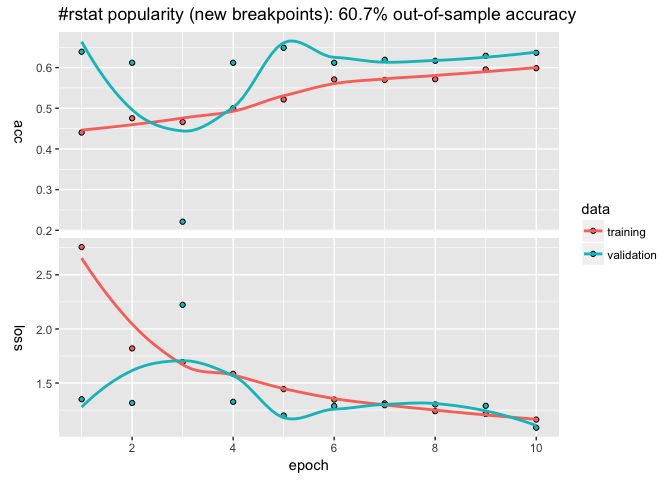
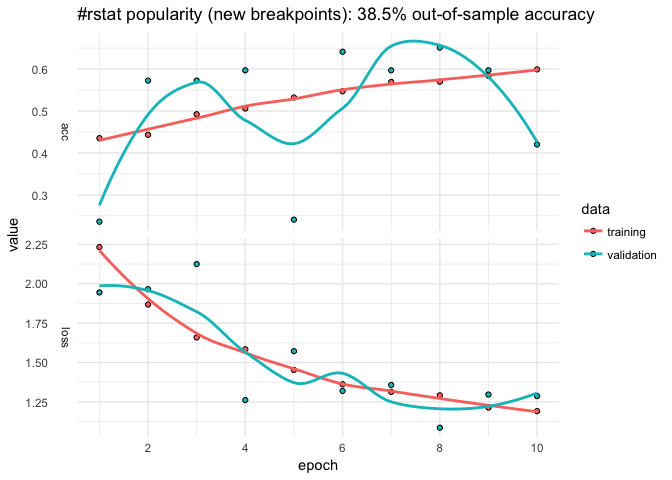
+ theme_minimal()

diff --git a/mohanty_kerasformula.md b/mohanty_kerasformula.md
@@ -15,7 +15,7 @@ install_keras()                        # first time only. see ?install_keras() f
 library(rtweet)                        # see https://github.com/mkearney/rtweet
 ```
 
-Let's look at \#rstats tweets (excluding retweets) as of January 15, 2018 at 15:54. This happens to give us a nice reasonable number of observations to work with in terms of runtime (and the purpose of this document is to show syntax, not build particularly predictive models).
+Let's look at \#rstats tweets (excluding retweets) as of January 15, 2018 at 16:15. This happens to give us a nice reasonable number of observations to work with in terms of runtime (and the purpose of this document is to show syntax, not build particularly predictive models).
 
 ``` r
 library(rtweet)
@@ -28,7 +28,7 @@ Suppose our goal is to predict how popular tweets will be based on how often the
 cor(rstats$favorite_count, rstats$retweet_count, method="spearman")
 ```
 
-    [1] 0.7114875
+    [1] 0.7108667
 
 And let's suppose we are interested in putting tweets into categories based on popularity but we're not sure how finely-grained we want to make distinctions (a practical problem that turns out to have big implications for predictive accuracy). Since few tweeets go viral, the data are quite skewed towards zero.
 
@@ -58,7 +58,7 @@ popularity <- kms("cut(retweet_count + favorite_count, breaks) ~
                           format(rstats$created_at, '%H')", rstats)
 plot(popularity$history) + ggtitle(paste("#rstat popularity:",
                                          paste0(round(100*popularity$evaluations$acc, 1), "%"),
-                                         "out-of-sample accuracy"))
+                                         "out-of-sample accuracy")) + theme_minimal()
 ```
 
 ![](mohanty_kerasformula_files/figure-markdown_github-ascii_identifiers/first_model-1.png)
@@ -69,14 +69,14 @@ popularity$confusion
 
                    
                     (-1,0] (0,1] (1,10] (10,100] (100,1e+03] (1e+03,1e+04]
-      (-1,0]            31     8      2        9           0             0
-      (0,1]             29    23      8       43           0             0
-      (1,10]            13    31     16      157           0             0
-      (10,100]           0     2      2      111           0             0
-      (100,1e+03]        0     0      0        7           0             0
+      (-1,0]            36     1      1        0           0             0
+      (0,1]             77    19     18        2           0             0
+      (1,10]           154    13     38        9           0             0
+      (10,100]          54     4      7       44           0             0
+      (100,1e+03]        5     0      0        8           0             0
       (1e+03,1e+04]      0     0      0        0           0             0
 
-The model only classifies about 37% of the out-of-sample data correctly. The confusion matrix suggests that model does best with tweets that aren't retweeted but struggles with others. The `history` plot suggests that out of sample accuracy is not very stable. We can easily change the breakpoints and number of epochs.
+The model only classifies about 28% of the out-of-sample data correctly. The confusion matrix suggests that model does best with tweets that aren't retweeted but struggles with others. The `history` plot suggests that out of sample accuracy is not very stable. We can easily change the breakpoints and number of epochs.
 
 ``` r
 breaks <- c(-1, 0, 1, 25, 50, 75, 100, 500, 1000, 10000)
@@ -89,7 +89,7 @@ popularity <- kms("cut(retweet_count + favorite_count, breaks) ~
                           format(rstats$created_at, '%H')", rstats, Nepochs = 10)
 plot(popularity$history) + ggtitle(paste("#rstat popularity (new breakpoints):",
                                          paste0(round(100*popularity$evaluations$acc, 1), "%"),
-                                         "out-of-sample accuracy"))
+                                         "out-of-sample accuracy")) + theme_minimal()
 ```
 
 ![](mohanty_kerasformula_files/figure-markdown_github-ascii_identifiers/change_breaks-1.png)
@@ -118,12 +118,9 @@ for(i in mentions)
   pop_input <- paste0(pop_input, " + ", "grepl(", i, ", mentions_user_id)")
 
 popularity <- kms(pop_input, rstats, Nepochs = 10)
-plot(popularity$history) + ggtitle(paste("#rstat popularity (with 'mentions'):",
-                                         paste0(round(100*popularity$evaluations$acc, 1), "%"),
-                                         "out-of-sample accuracy"))
 ```
 
-![](mohanty_kerasformula_files/figure-markdown_github-ascii_identifiers/add_mentions-1.png)
+![](mohanty_kerasformula_files/figure-markdown_github-ascii_identifiers/mentionsplot-1.png)
 
 We could add more data, perhaps add individual words from the text or some other summary stat (`mean(text %in% LETTERS)` to see if all caps explains popularity). But let's alter the neural net.
 
@@ -133,7 +130,7 @@ The `input.formula` is used to create a sparse model matrix. For example, `rstat
 popularity$P
 ```
 
-    [1] 1787
+    [1] 1786
 
 Say we wanted to reshape the layers to transition more gradually from the input shape to the output.
 
@@ -142,12 +139,9 @@ popularity <- kms(pop_input, rstats,
                   layers = list(units = c(1024, 512, 256, 128, NA),
                                 activation = c("relu", "relu", "relu", "relu", "softmax"), 
                                 dropout = c(0.5, 0.45, 0.4, 0.35, NA)))
-plot(popularity$history) + ggtitle(paste("#rstat popularity (custom dense neural net):",
-                                         paste0(round(100*popularity$evaluations$acc, 1), "%"),
-                                         "out-of-sample accuracy"))
 ```
 
-![](mohanty_kerasformula_files/figure-markdown_github-ascii_identifiers/custom_dense-1.png)
+![](mohanty_kerasformula_files/figure-markdown_github-ascii_identifiers/customplot-1.png)
 
 `kms` builds a `keras_sequential_model()`, which is a stack of linear layers. The input shape is determined by the dimensionality of the model matrix (`popularity$P`) but after that users are free to determine the number of layers and so on. The `kms` argument `layers` expects a list, the first entry of which is a vector `units` with which to call `keras::layer_dense()`. The first element the number of `units` in the first layer, the second element for the second layer, and so on (`NA` as the final element connotes to auto-detect the final number of units based on the observed number of outcomes). `activation` is also passed to `layer_dense()` and may take values such as `softmax`, `relu`, `elu`, and `linear`. (`kms` also has a separate parameter to control the optimizer; by default `kms(... optimizer = 'rms_prop')`.) The `dropout` that follows each dense layer rate prevents overfitting (but of course isn't applicable to the final layer).
 
@@ -173,9 +167,9 @@ colMeans(accuracy)
 ```
 
     Nbatch_16 Nbatch_32 Nbatch_64 
-    0.3987599 0.5745734 0.5011924 
+    0.4960650 0.4101237 0.5561078 
 
-For the sake of curtailing runtime, the number of epochs has been set arbitrarily short but, from those results, 32 is the best batch size.
+For the sake of curtailing runtime, the number of epochs has been set arbitrarily short but, from those results, 64 is the best batch size.
 
 Inputting a Compiled Keras Model
 ================================
@@ -183,14 +177,13 @@ Inputting a Compiled Keras Model
 This section shows how to input a model compiled in the fashion typical to `library(keras)`, which is useful for more advanced models. Here is an example for `lstm` analogous to the [imbd wih Keras for example](https://tensorflow.rstudio.com/keras/articles/examples/imdb_lstm.html).
 
 ``` r
-# not run
 k <- keras_model_sequential()
 k %>%
   layer_embedding(input_dim = popularity$P, output_dim = popularity$P) %>% 
   layer_lstm(units = 512, dropout = 0.4, recurrent_dropout = 0.2) %>% 
   layer_dense(units = 256, activation = "relu") %>%
   layer_dropout(0.3) %>%
-  layer_dense(units = 8, # length(breaks) - 1 if all levels observed  
+  layer_dense(units = 8, # number of levels observed on y (outcome)  
               activation = 'sigmoid')
 
 k %>% compile(
